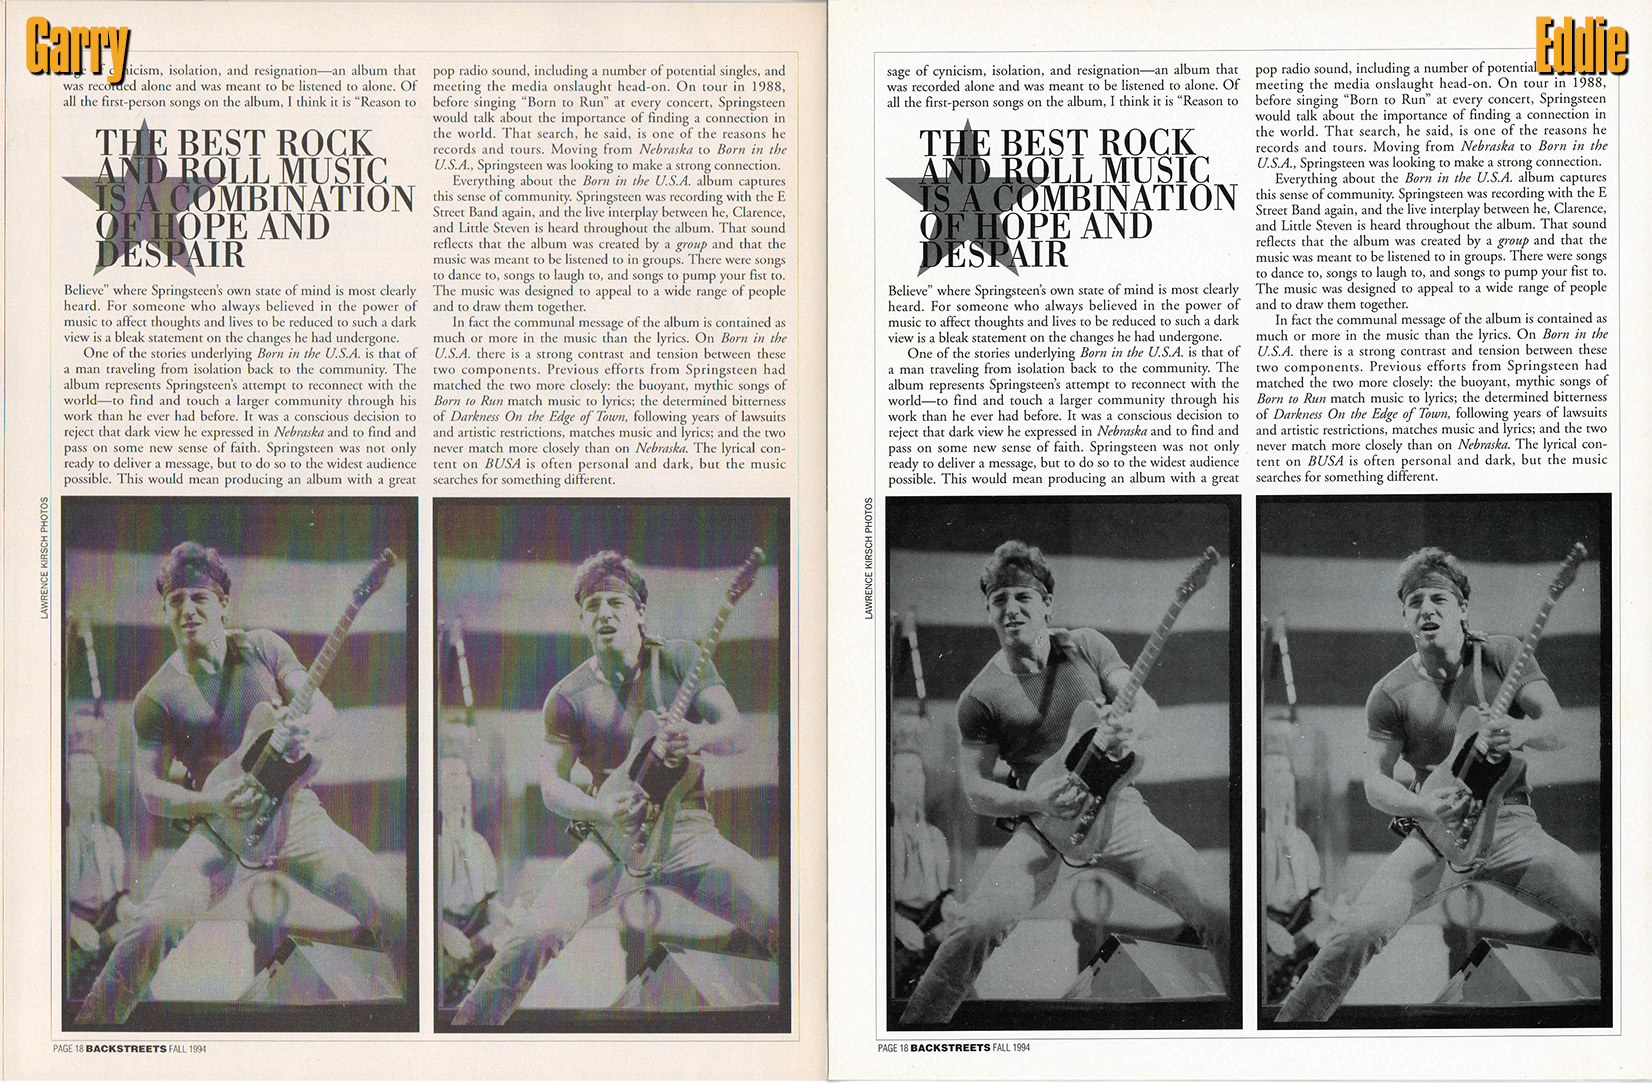
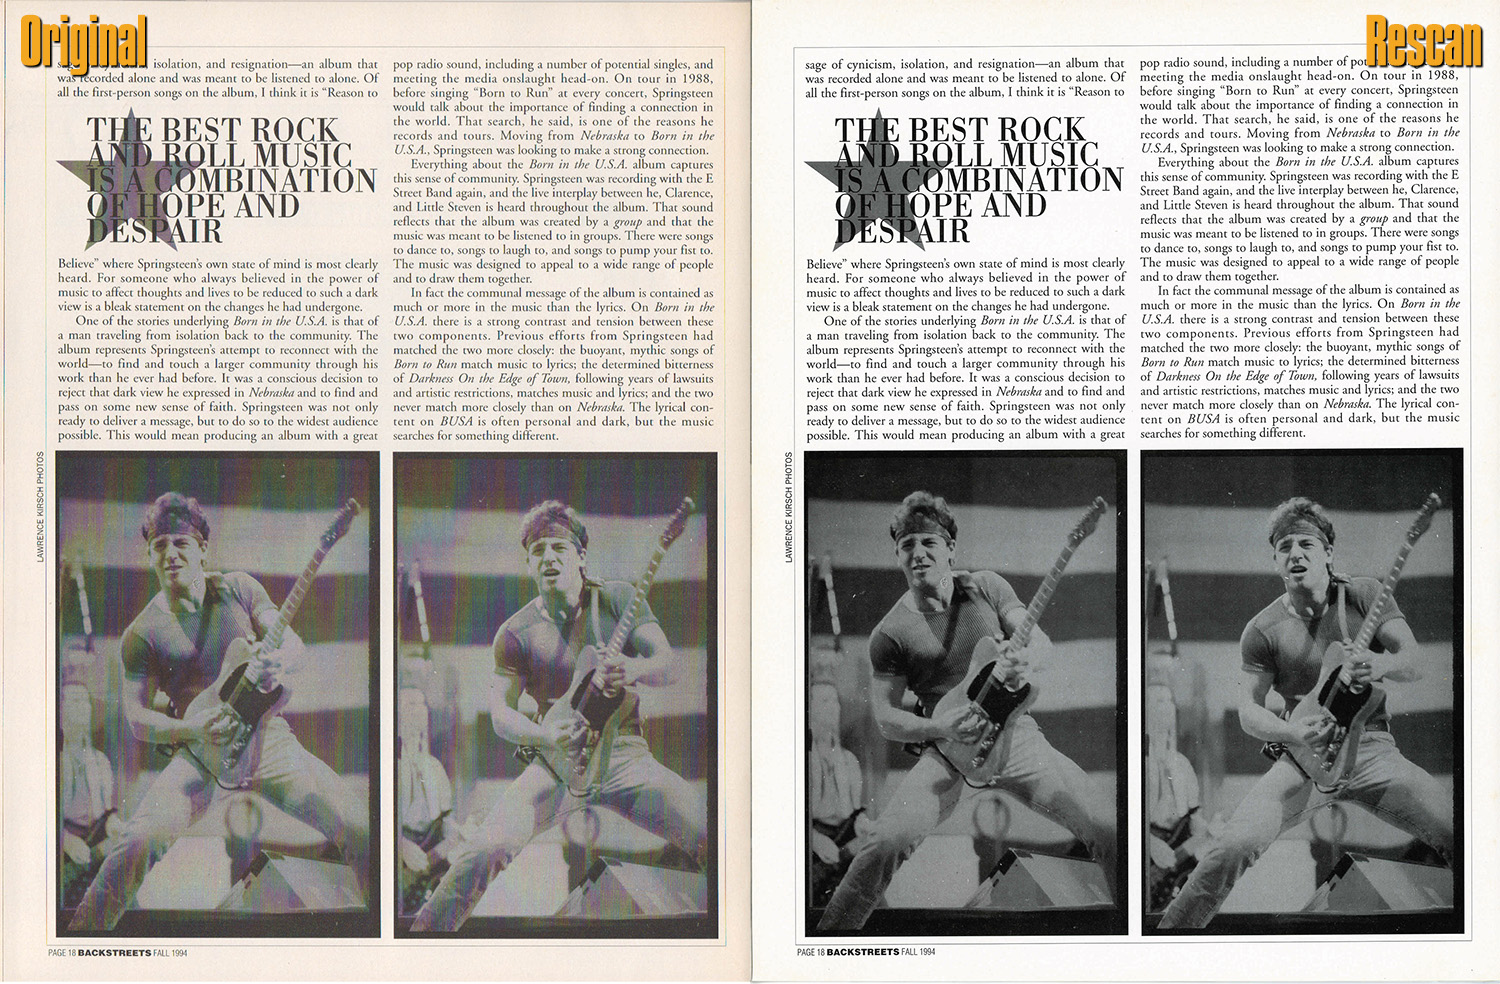
spell check and update comparison

diff --git a/_posts/2025-04-06-backstreets-mag-archive.md b/_posts/2025-04-06-backstreets-mag-archive.md
@@ -30,13 +30,13 @@ A treasure trove that was largely inaccessible on the internet...until now.
 Thanks to myself and members of the StonePonyLondon forum, the entire run of Backstreets Magazine has been digitized and is now freely available for anyone to read and download.
 
 ## Project Intro
-I basically stumbled into this project without really intending to. 
+I basically stumbled into this project without really intending to.
 
 I have a number of archival Bruce-related projects under my belt. Things like the [BTX Article Thread Backup](https://github.com/lilbud/btx-article-dump), which is a text-based archive of nearly 1,000 articles. Or the [Radio Nowhere Archive](https://archive.org/details/radionowhere), which is an ongoing project working to make as many bootlegs freely available for stream/download.
 
-I also have a list of projects to look into, one of them being an archive of Backstreets Magazine. Although, I figured this would've been an "over time" project. One where I'd stumble upon issues here and there, and build up the archive over a few weeks or even months.
+I also have a list of projects to look into, one of them being an archive of Backstreets Magazine. Although, I figured this would've been an "overtime" project. One where I'd stumble upon issues here and there, and build up the archive over a few weeks or even months.
 
-On March 26, I went onto StonePonyLondon, a Bruce forum that has been around for a number of years (pretty sure longer than I have). There was a thread posted by BigD asking if anyone had a scan of Backstreets #11. A member named Garry responded with a scanned copy, which I then took and formatted those JPGs into a PDF. I then asked if there was more copies out there, fully thinking that the response would be no, and that would be it. Surely it couldn't be that easy right?
+On March 26, I went to StonePonyLondon, a Bruce forum that has been around for a number of years (pretty sure longer than I have). There was a thread posted by BigD asking if anyone had a scan of Backstreets #11. A member named Garry responded with a scanned copy, which I then took and formatted those JPGs into a PDF. I then asked if there were more copies out there, fully thinking that the response would be no, and that would be it. Surely it couldn't be that easy right?
 
 {% include video id="h9uA45vwdb0" provider="youtube" %}
 
@@ -58,13 +58,13 @@ For the issues provided by Eddie, these were already PDF files, completely skipp
 
 Very little work was needed on Eddie's scans, which saved me a good bit of time. The most that had to be done was fixing the orientation of some pages that the Epson software mistakenly rotated.
 
-After I had PDFs of all the issues (from both Garry and Ed), I next used another Python library named `ocrmypdf`. Which uses the same Tessaract OCR process that the Internet Archive does. Ed's scans were already OCRd by the scanner, but I wanted to redo all of the issues with the same tool so they were all mostly consistent.
+After I had PDFs of all the issues (from both Garry and Ed), I next used another Python library named `ocrmypdf`. Which uses the same Tesseract OCR process that the Internet Archive does. Ed's scans were already OCRd by the scanner, but I wanted to redo all of the issues with the same tool so they were all mostly consistent.
 
 10 of the issues were scanned as spreads, rather than single pages. Since the other 81 issues were single pages, I asked Eddie to rescan these just to keep everything consistent with each other.
 
 Once the issues were ready, they were then uploaded to both MEGA and Archive.org. I also plan to release a torrent file on Jungleland so stay tuned for that.
 
-I really want to thank Eddie for scanning and even rescanning a number of issues. We had the shared goal of making this as good as it could possibly be. Because of his efforts, these are the highest quality versions of these issues available anywhere on the internet. 
+I really want to thank Eddie for scanning and even rescanning a number of issues. We had the shared goal of making this as good as it could possibly be. Because of his efforts, these are the highest quality versions of these issues available anywhere on the internet.
 
 ## Comparisons
 Real quick, I wanted to show a before and after of sorts. Comparing a few early scans to their final versions included in this project. 
